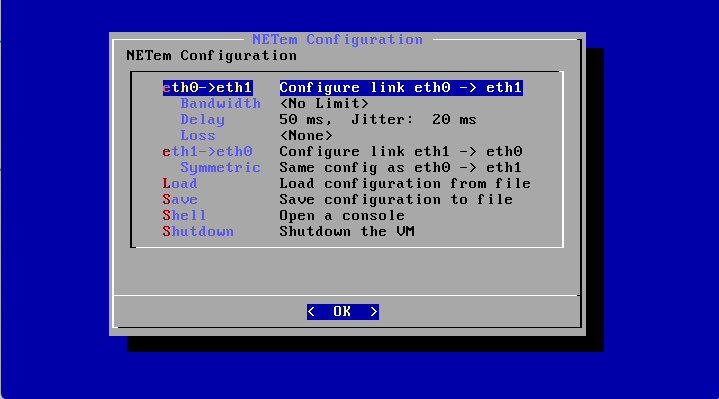
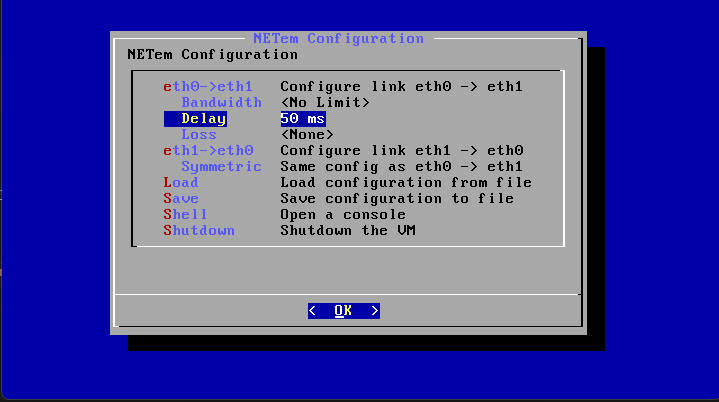
Alterado o arquivo readme.md

diff --git a/CCNP 350-401 ENCOR/01 - Architecture/01 - QoS/04 - Problemas/README.md b/CCNP 350-401 ENCOR/01 - Architecture/01 - QoS/04 - Problemas/README.md
@@ -66,6 +66,12 @@ Agora repare na saída. <br></br>
 Agora podemos perceber que o tempo de resposta aumentou. Agora ele fica em uma média de 102 ms. Então esse é um atraso adicionado no tempo de resposa, ou seja, é o **Delay** <br></br>
 Por fim, vou alterar o NETem para termos um delay de 50 ms e uma variação de 20 ms. Ou seja, nosso **jitter** será de 20 ms . <br></br>
 
-![PING](Imagens/netem_04.png) <br></br>
+<table>
+       <tr>
+           <td> <img src = "Imagens/netem_03.png"> </img> </td>  <td> <img src = "Imagens/netem_04.png"> </img> </td>
+       </tr>  
+</table>
+
+<br></br>
 
 Então vamos analisar agora a saída do ping. <br></br>
